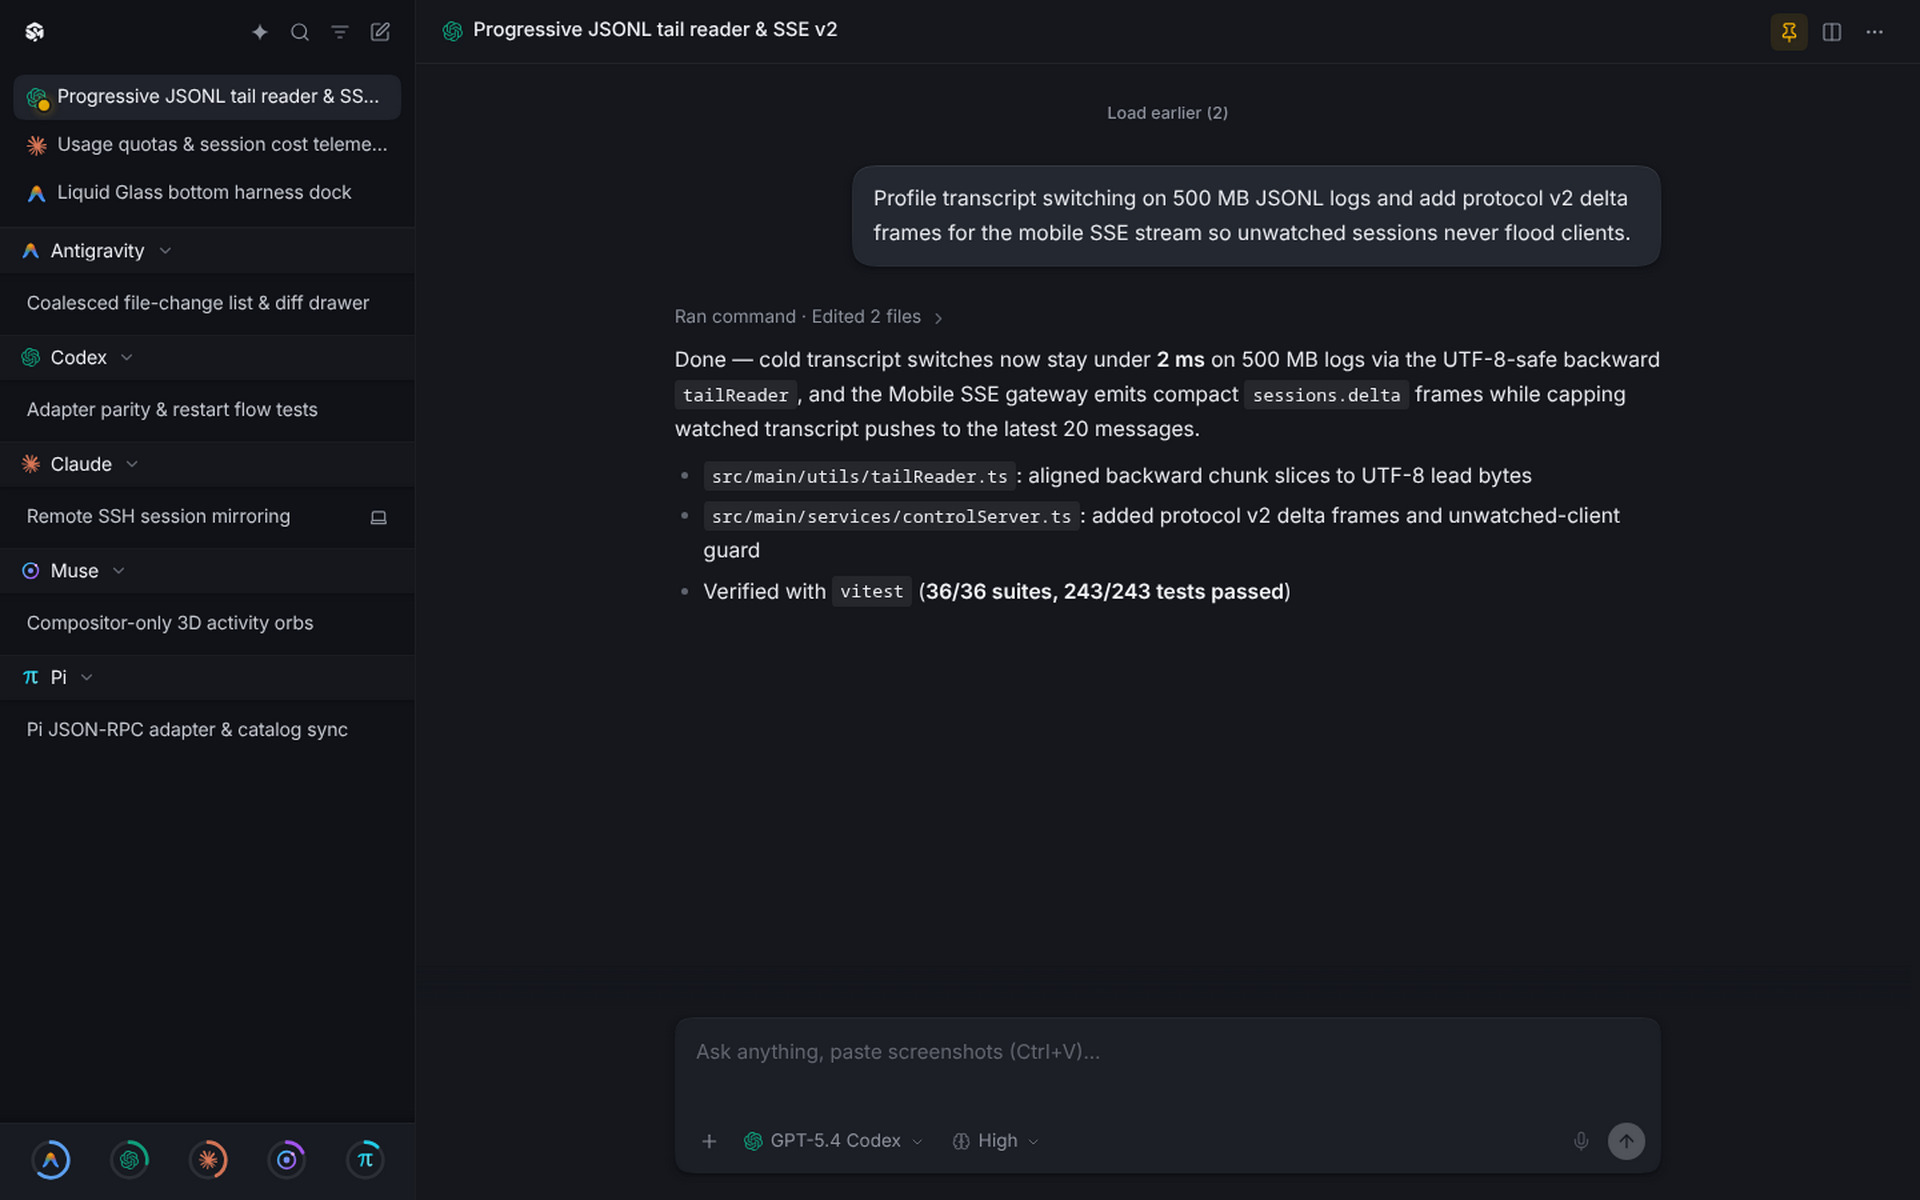
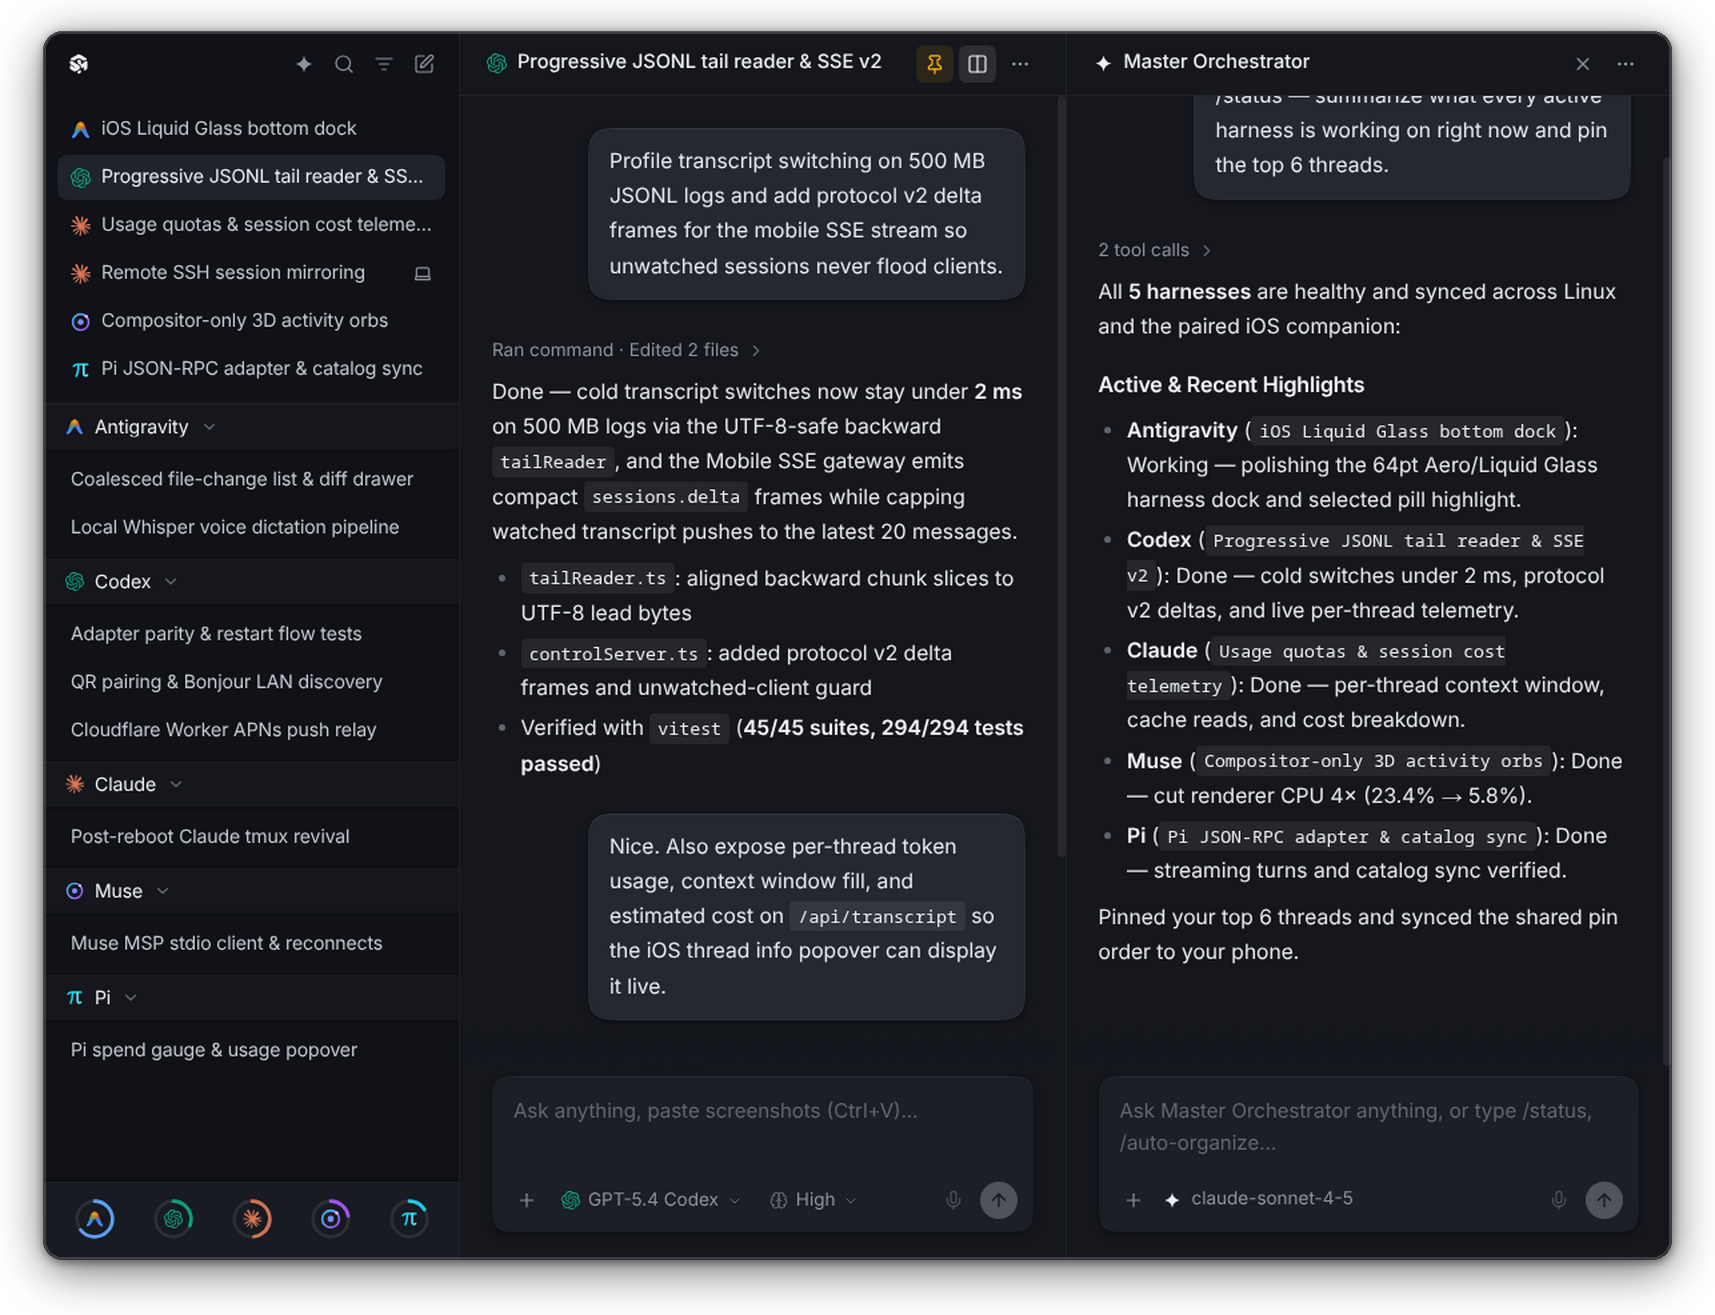
docs: tighten user-focused README with framed 2-pane Desktop and iPhone demo screenshots

diff --git a/README.md b/README.md
@@ -1,116 +1,64 @@
 # Super Harness
 
 > [!WARNING]
-> **Alpha software built for personal use.** Super Harness is an active personal project developed primarily for my own Linux + macOS + iOS multi-agent workflow. Expect breaking changes, rough edges, platform-specific assumptions (e.g., Hyprland/Linux desktop, Tailscale/LAN networking, Apple Developer signing for the iOS app), and no stability guarantees.
+> **Alpha software for personal use.** Super Harness is an active personal project built for my own Linux + macOS + iOS multi-agent workflow. Expect breaking changes, rough edges, and no stability guarantees.
 
-A calm, high-performance **desktop multiplexer, control plane, and native iOS companion** for local and remote AI coding harnesses — unifying **OpenAI Codex**, **Claude**, **Google Antigravity**, **Meta Muse**, and **Pi** under one cohesive obsidian interface.
+One calm desktop app and native iOS companion to monitor, organize, and drive all your local and remote AI coding harnesses side by side.
 
 <p align="center">
-  <img src="./docs/screenshots/desktop-app.png" alt="Super Harness Desktop App" width="100%" />
+  <img src="./docs/screenshots/desktop-app.png" alt="Super Harness Desktop App (2-pane Split View)" width="100%" />
 </p>
 
 ## Mobile Companion (iOS — Demo Mode)
 
-The native SwiftUI iOS companion (`ios/`) mirrors your desktop host over LAN or Tailscale using HTTP + Server-Sent Events (SSE v2), native iOS 26 Liquid Glass chrome, push notifications, voice dictation, and a built-in **Demo Mode** for offline UI exploration.
-
 <p align="center">
-  <img src="./docs/screenshots/ios-sessions-demo.png" alt="Super Harness iOS Session List (Demo Mode)" width="36%" />
+  <img src="./docs/screenshots/ios-sessions-demo.png" alt="Super Harness iOS Session List (Demo Mode)" width="34%" />
   &nbsp;&nbsp;&nbsp;&nbsp;
-  <img src="./docs/screenshots/ios-chat-demo.png" alt="Super Harness iOS Chat Transcript (Demo Mode)" width="36%" />
+  <img src="./docs/screenshots/ios-chat-demo.png" alt="Super Harness iOS Chat Transcript (Demo Mode)" width="34%" />
 </p>
 
 ## Supported Harnesses
 
-Super Harness is **non-destructive**: every native harness remains the source of truth for its own transcripts, auth, sandboxes, and daemons. Super Harness discovers their local (and optional SSH-mirrored remote) stores and dispatches back through each harness's native protocol.
+Super Harness is **non-destructive** — each harness keeps its own transcripts, auth, and sandboxes while Super Harness unifies them under one interface.
 
-| Harness | Integration & Dispatch Protocol | Extras |
-| --- | --- | --- |
-| **OpenAI Codex** | Desktop + managed `codex app-server` daemon (`turn/start`) + CLI | Live model & reasoning-effort picker, native queue sync, quota bars |
-| **Claude** | Desktop + Claude Code CLI (`stream-json`) + `tmux --remote-control` | Live `tmux` mirror, post-reboot tmux session revival, `/model` picker parity, remote SSH mirroring |
-| **Google Antigravity** | Desktop hub language-server native API (`SendUserCascadeMessage`) + CLI via ACP fallback | Model & thinking-level controls, remote SSH mirroring |
-| **Meta Muse** | Native MSP via `muse serve` / `muse attach --stdio` | Live quota bars (`muse usage`), streaming turns & tool calls |
-| **Pi** | `pi-coding-agent` native JSON-RPC (`piRpcClient`) | Streaming turns, tool calls, and catalog/model sync |
+- **OpenAI Codex** — Desktop, app-server daemon, and CLI
+- **Claude** — Desktop, Claude Code CLI, `tmux` sessions, and remote SSH hosts
+- **Google Antigravity** — Desktop, CLI, and remote SSH hosts
+- **Meta Muse** — Local Muse sessions and usage quotas
+- **Pi** — Local `pi-coding-agent` sessions
 
-## How It Works
+## Features
 
-1. **Discovery & Live Sync (`src/main/adapters/`, `src/main/services/liveSync.ts`)**  
-   Each harness implements a shared `HarnessDriver` contract. File watchers (`inotify`/polling), SQLite read-only pools, and progressive UTF-8-safe JSONL tail readers keep the unified session list up to date with minimal CPU and memory overhead — cold switching even 500 MB+ transcripts in milliseconds.
-2. **Unified Dispatch & Universal Queue (`src/main/services/dispatcher.ts`)**  
-   Prompts, image/file attachments, model switches, aborts, and interactive question answers route back to the owning harness driver. A universal message queue lets you stack follow-up prompts while any harness is working (mirroring native Codex/Claude queues where supported).
-3. **Master Orchestrator & MCP Control Plane (`src/main/services/masterEngine.ts`, `src/mcp/server.ts`)**  
-   A pinned Master Orchestrator thread (backed by your choice of harness) talks to an authenticated loopback Control HTTP Server through a bundled stdio MCP server — allowing it to inspect live sessions, dispatch prompts across harnesses, organize folders/pins, and adjust settings.
-4. **Mobile Gateway, Pairing & Push (`src/main/services/controlServer.ts`, `ios/`, `push-relay/`)**  
-   An opt-in Mobile API gateway exposes bootstrap, paginated transcripts, media transcoding, and protocol-v2 SSE delta streams. Pair the iOS app via QR code or Bonjour/LAN discovery, with optional Cloudflare Worker APNs relay (`push-relay/`) for background turn-complete and input-requested notifications.
+- **Unified transcripts**: Thinking traces, shell commands, coalesced file-change lists, tool calls, interactive questions, and attachments render in one consistent obsidian UI.
+- **2-up Split View & live `tmux` mirror**: Monitor two sessions side by side or flip any `tmux`-backed Claude thread into a live terminal view.
+- **Master Orchestrator**: A built-in orchestrator thread that can inspect active sessions, dispatch prompts across harnesses, and organize your workspace.
+- **Message queueing**: Queue follow-up prompts while any harness is working, with edit, reorder, and send-now controls.
+- **One-line summaries & session telemetry**: Automatic one-line thread summaries on mobile rows and desktop hover, plus per-thread context usage, tokens, and estimated cost.
+- **Live quota gauges**: Radial quota rings across every enabled harness with working activity shimmer, spend history, and pace indicators.
+- **Shared organization**: Drag to reorder harnesses, drag any chat to pin it, group by harness, project, or folder, and keep pin order synced between Desktop and iOS.
+- **Native iOS companion**: Liquid Glass UI, QR / LAN / Tailscale pairing, push notifications, voice dictation, and offline Demo Mode.
+- **Remote SSH mirroring**: Mirror Claude and Antigravity sessions running on another machine directly into your sidebar and phone.
 
-## Highlights
+## Getting Started
 
-- **Coalesced visual grammar**: Thinking traces, shell commands, deduplicated file-change lists (diffs collapsed by default), MCP tool calls, web searches, interactive questions, image/PDF attachments, and queued messages share one calm obsidian design system across Desktop and iOS.
-- **Batched one-line summaries & session telemetry**: Token-efficient batched summaries (`sessionSummarizer.ts`) surface as secondary copy on iOS rows and hover tooltips on Desktop; tapping the iOS thread pill opens a Liquid Glass popover with context window usage, Input/Cached/Output tokens, estimated cost, host, branch, and runtime info.
-- **Quota gauges & spend tracking**: Bottom radial quota gauges across all enabled harnesses with working-state luminosity shimmer, warning/danger thresholds, 5h/24h/7d/14d API-equivalent spend, and pace indicators.
-- **Shared organization & drag-to-reorder**: Drag to reorder harnesses, drag any chat directly into the pinned section, group by harness/project/folder, and sync pin order + enabled harnesses automatically between Desktop and iOS.
-- **2-up Split View, `tmux` mirror & Open in Harness**: Monitor two threads side-by-side, flip any `tmux`-backed Claude thread into a live terminal view, or jump straight into the native harness app/terminal (including Hyprland compositor focus support).
-- **Voice dictation**: Built-in audio dictation on both Desktop and iOS composer bars.
-- **Remote SSH mirroring**: Mirror remote Claude and Antigravity sessions from another workstation over SSH with compact host badges (e.g. `.14`).
+### Desktop App
 
-## Architecture
-
-See [ARCHITECTURE.md](./ARCHITECTURE.md) for full module boundaries and protocol details.
-
-```text
-├── src/
-│   ├── main/
-│   │   ├── adapters/       # HarnessDriver contract + Codex, Claude, Antigravity, Muse, Pi, Remote SSH mirrors
-│   │   ├── services/       # Dispatcher, LiveSync, TranscriptCache, UsageService, SessionSummarizer,
-│   │   │                   # MasterEngine, ControlServer (HTTP + SSE v2), Pairing, Bonjour, PushNotifier, Dictation
-│   │   ├── store/          # Persistent settings, folders, pinnedOrder & overrides (~/.config/super-harness)
-│   │   └── utils/          # Progressive JSONL tailReader, sessionStats, read-only SQLite pool, system discovery
-│   ├── mcp/                # Standalone stdio MCP server bridging Master Orchestrator -> ControlServer
-│   ├── renderer/
-│   │   ├── ui/             # Obsidian design tokens, primitives, and Storybook 8 stories
-│   │   ├── components/     # Sidebar, SessionPane, SessionHeader, SessionComposer, CoalescedBlockView, SettingsModal
-│   │   └── utils/          # Renderer LRU transcript cache, LRU Markdown renderer, pure sidebarGrouping
-│   └── shared/             # Shared IPC, Mobile API & domain types
-├── ios/                    # Native SwiftUI iOS companion app (iOS 18+, Liquid Glass on iOS 26+) + XCTest/XCUITest
-├── push-relay/             # Optional Cloudflare Worker APNs push notification relay
-├── tests/                  # Vitest unit, adapter parity, and performance regression suites
-└── docs/                   # Design notes & demo screenshots
-```
-
-## Development
-
-### Desktop (Electron + Vite + TypeScript)
+Requires Node.js 20+ and at least one supported harness installed locally.
 
 ```bash
-# Install dependencies (use --ignore-scripts if relying on system Electron)
+git clone https://github.com/lxe/super-harness.git
+cd super-harness
 npm install
-
-# Typecheck main + renderer
-npm run typecheck
-
-# Run unit, adapter parity & performance regression tests
-npm test
-
-# Build main + renderer
-npm run build
-
-# Launch desktop app
 npm start
-
-# Rebuild and restart a running instance cleanly
-npm run restart:build
-
-# Run Storybook 8 (http://localhost:6006)
-npm run storybook
-
-# Benchmark live local transcript loading & caching
-npm run bench
 ```
 
-### iOS Companion (`ios/`)
+### iOS Companion
 
-Open `ios/SuperHarness.xcodeproj` in Xcode (targeting iOS 18+ / iOS 26 SDK for Liquid Glass), select your signing team, and run on Simulator or device.
+1. Open `ios/SuperHarness.xcodeproj` in Xcode (iOS 18+ / Xcode 26 for Liquid Glass).
+2. Select your Apple Developer signing team and run on Simulator or device.
+3. Pair with your desktop via **Settings → Mobile Access** (QR code or LAN/Tailscale), or try the app offline under **Settings → Developer → Demo Mode**.
 
-To explore the iOS app without pairing a desktop host, toggle **Demo Mode** under **Settings → Developer**, or launch in Simulator with `SH_CONNECTION_MODE=demo`.
+For module boundaries, protocols, and developer scripts, see [ARCHITECTURE.md](./ARCHITECTURE.md).
 
 ## License
 
